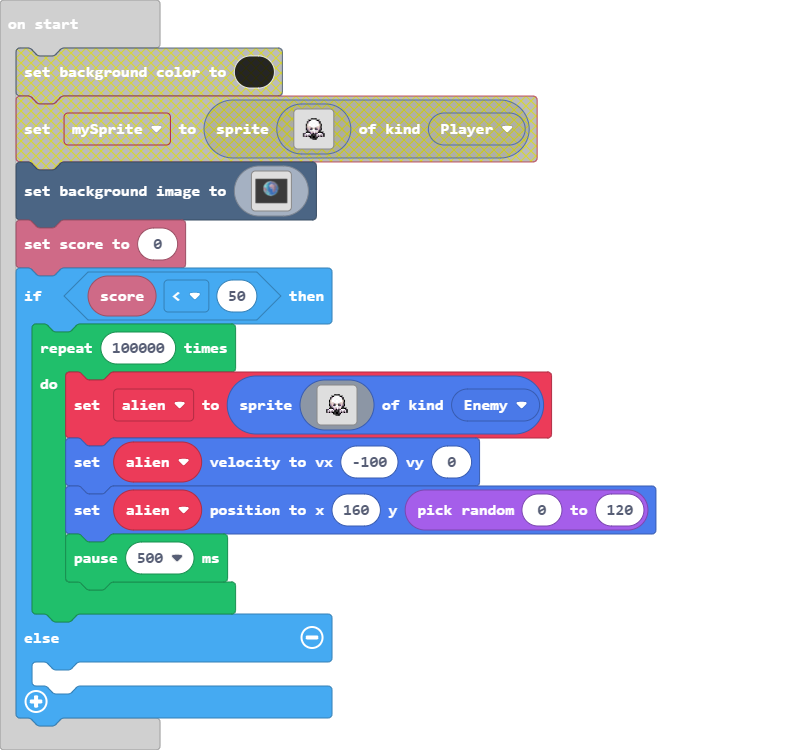
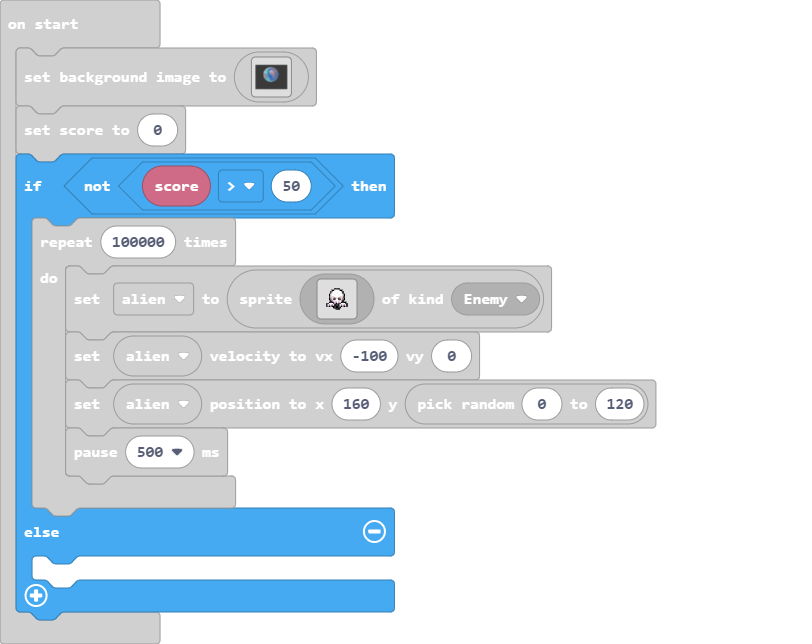
Update main.blocks, main.ts

diff --git a/main.ts b/main.ts
@@ -122,7 +122,7 @@ scene.setBackgroundImage(img`
     ffffffffffffffffffffffffffffffffffffffffffffffffffffffffffffffffffffffffffffffffffffffffffffffffffffffffffffffffffffffffffffffffffffffffffffffffffffffffffffffff
     `)
 info.setScore(0)
-if (info.score() < 50) {
+if (!(info.score() > 50)) {
     for (let index = 0; index < 100000; index++) {
         alien = sprites.create(img`
             ........................
